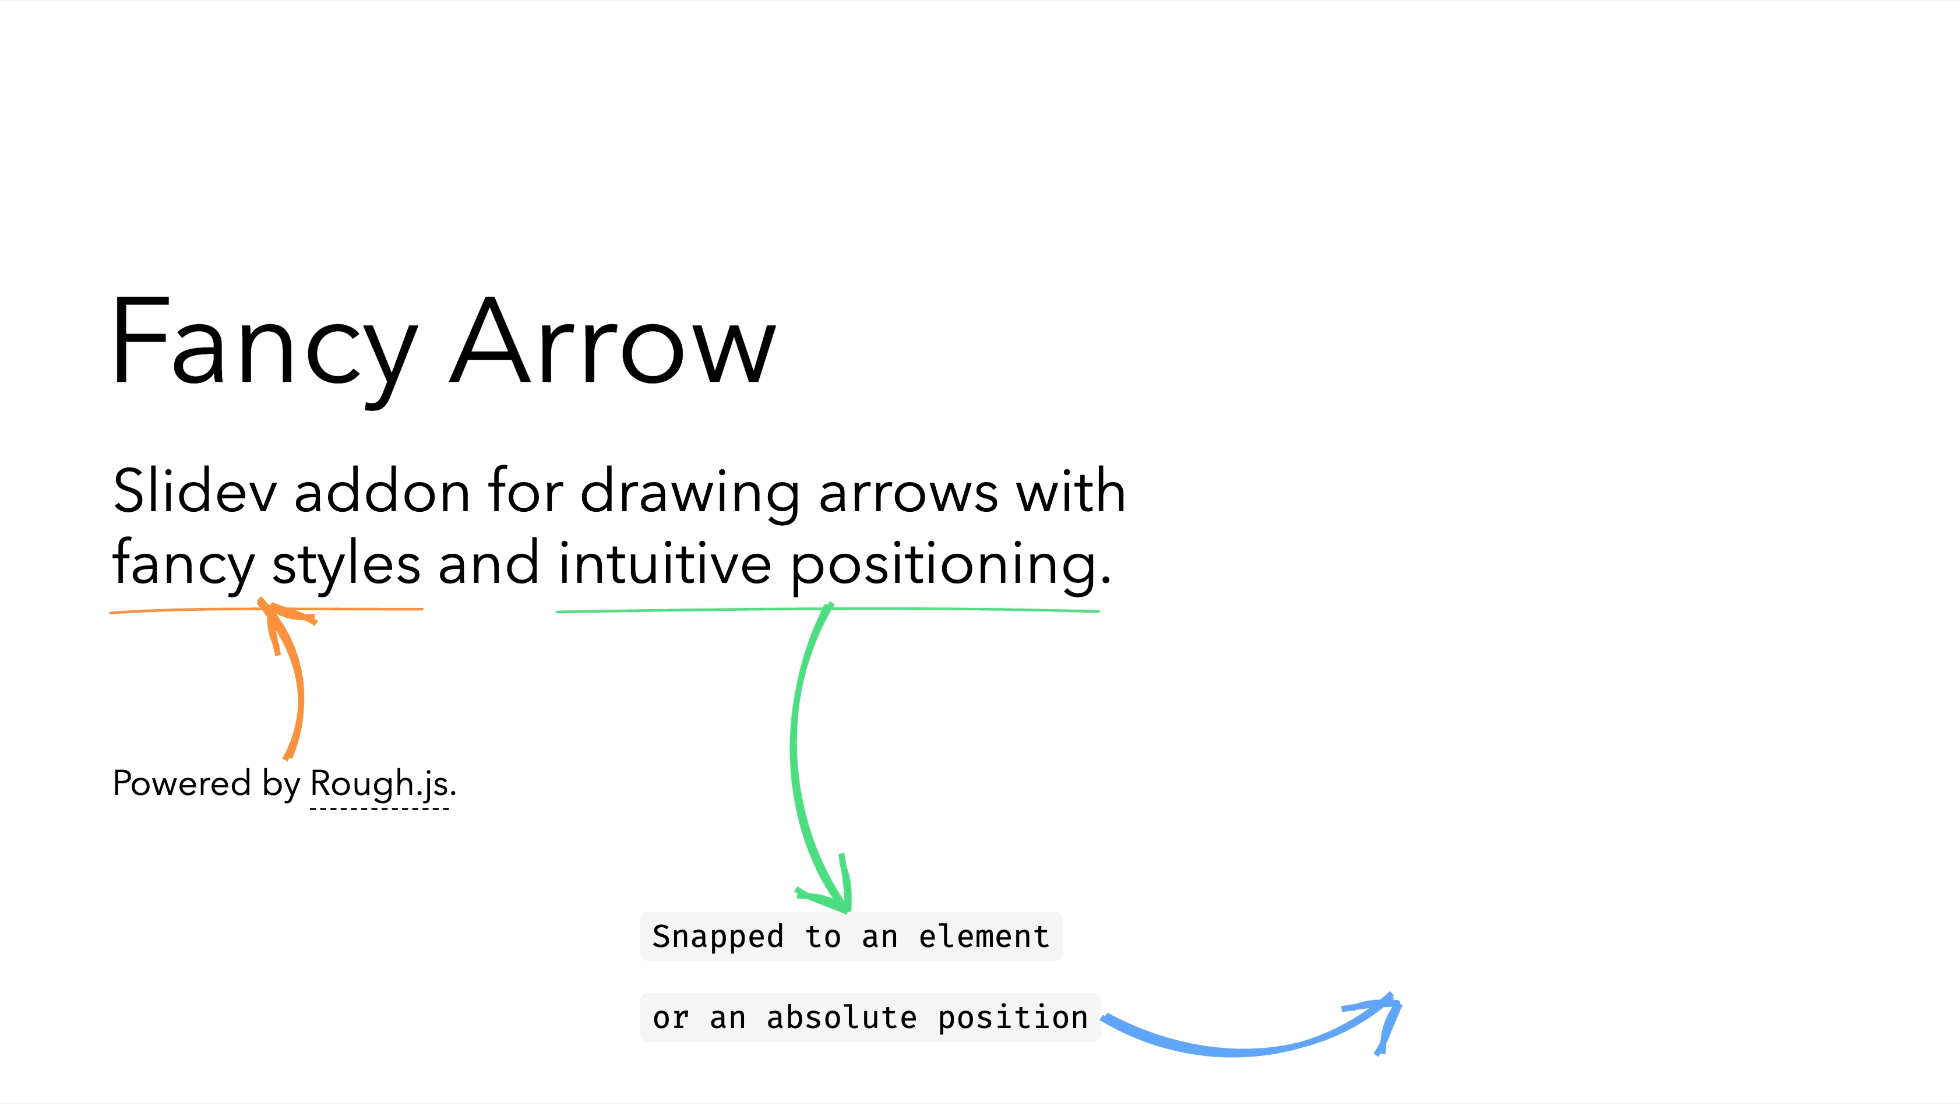
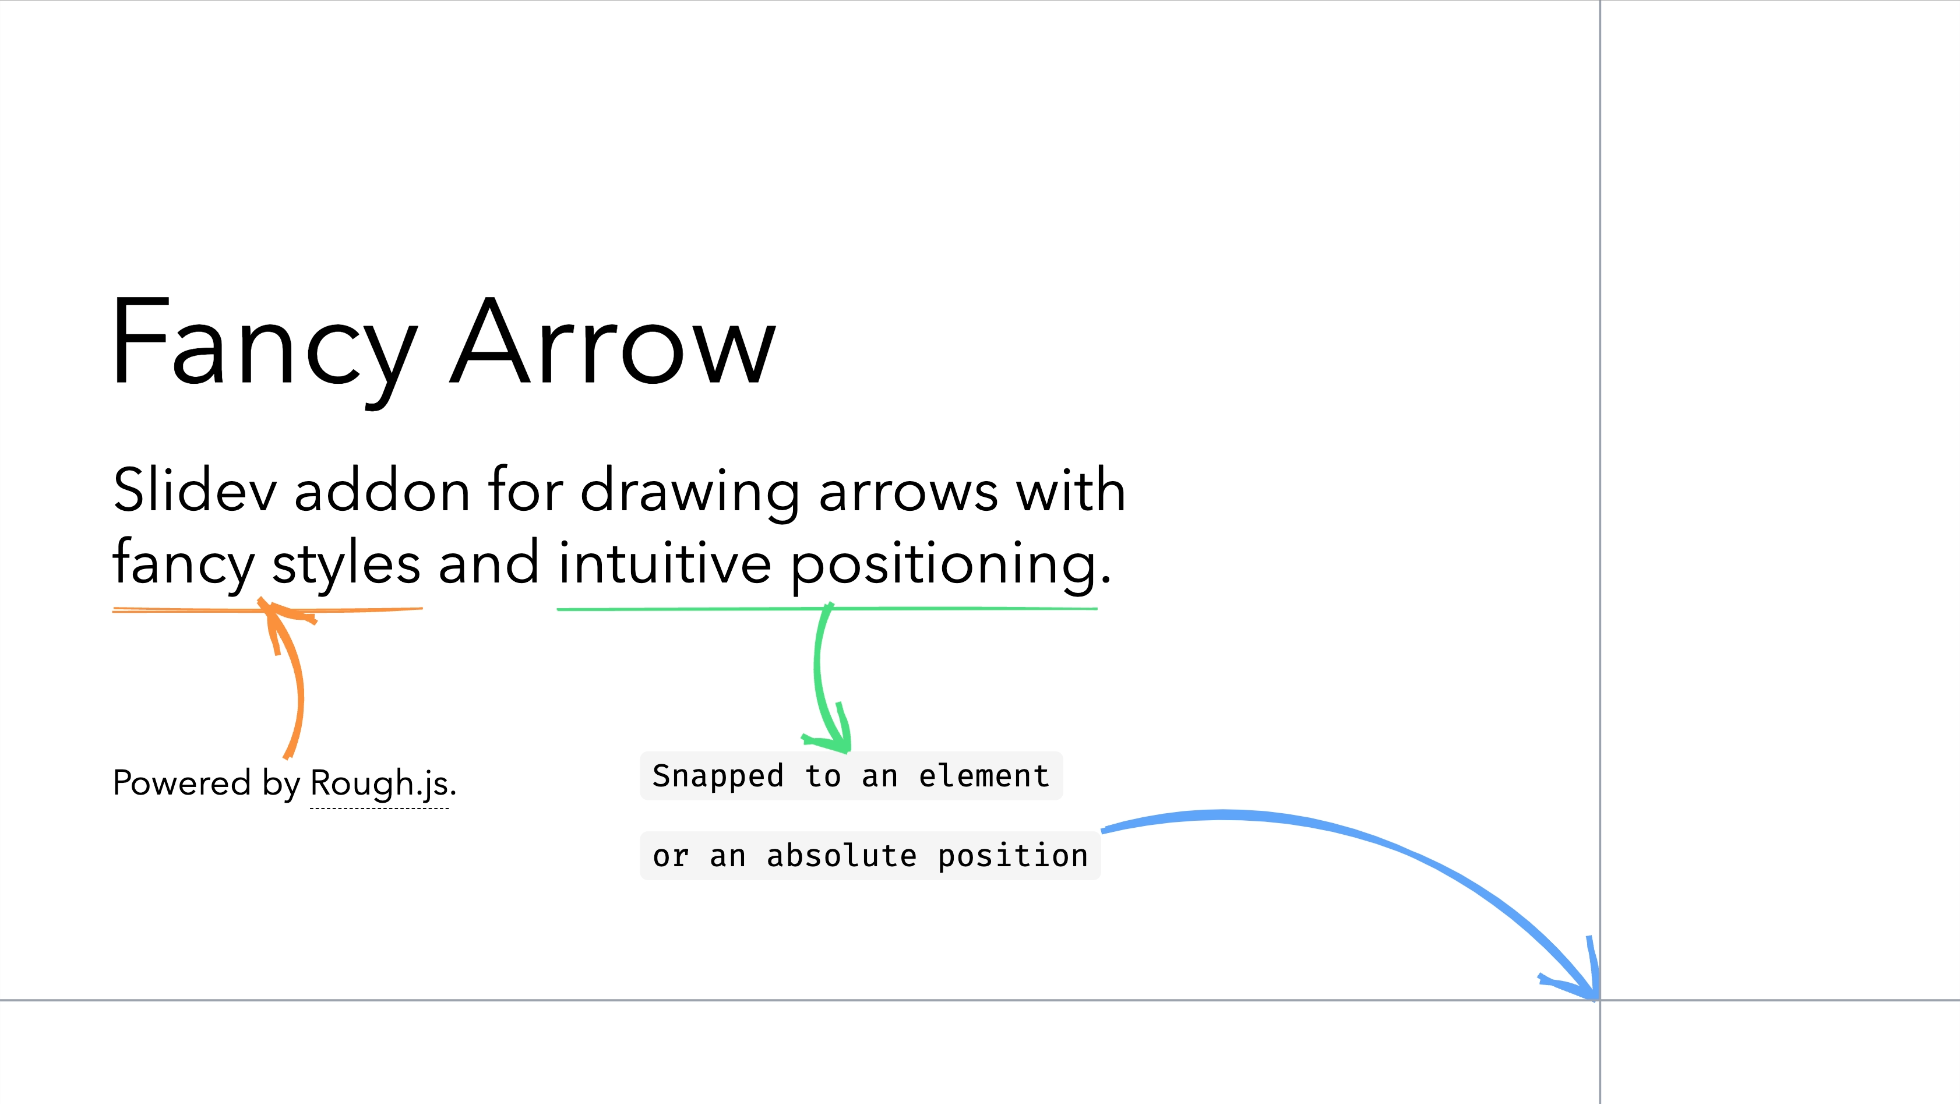
Update slides.md and cover.png

diff --git a/slides.md b/slides.md
@@ -31,8 +31,8 @@ Slidev addon for drawing arrows with<br>
 
 <FancyArrow from="[data-id=abspos-sample]@topright" to="(800,500)" color="blue" width="3" arc="0.3" seed="1" roughness="2" />
 
-<div absolute w="3px" h="100%" left="800px" top="0" bg="gray" opacity="0.5" translate-x="-50%"></div>
-<div absolute h="3px" w="100%" left="0" top="500px" bg="gray" opacity="0.5" translate-y="-50%"></div>
+<div absolute w="1px" h="100%" left="800px" top="0" bg="gray" opacity="0.5" translate-x="-50%"></div>
+<div absolute h="1px" w="100%" left="0" top="500px" bg="gray" opacity="0.5" translate-y="-50%"></div>
 
 ---
 
